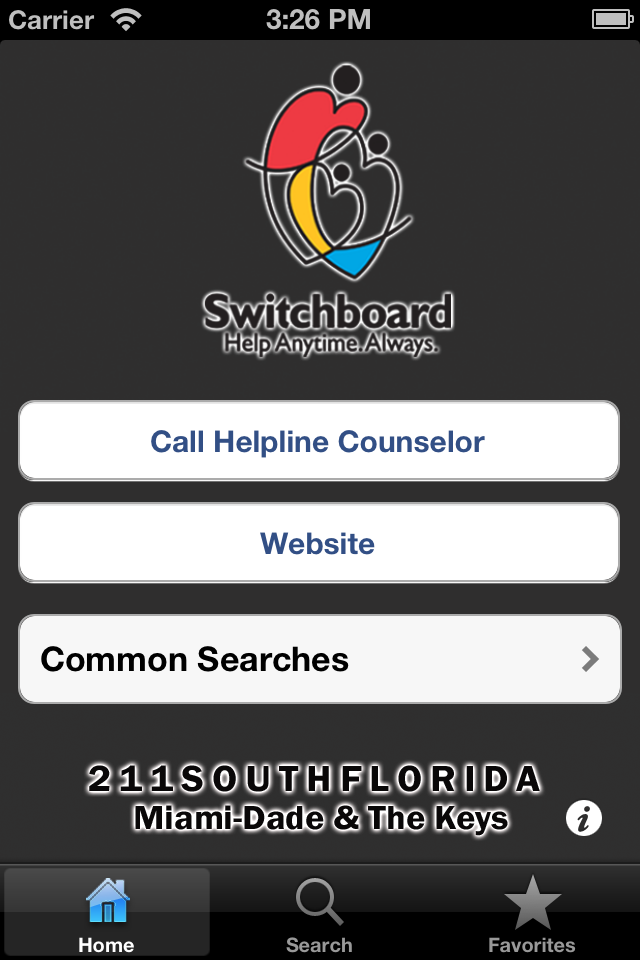
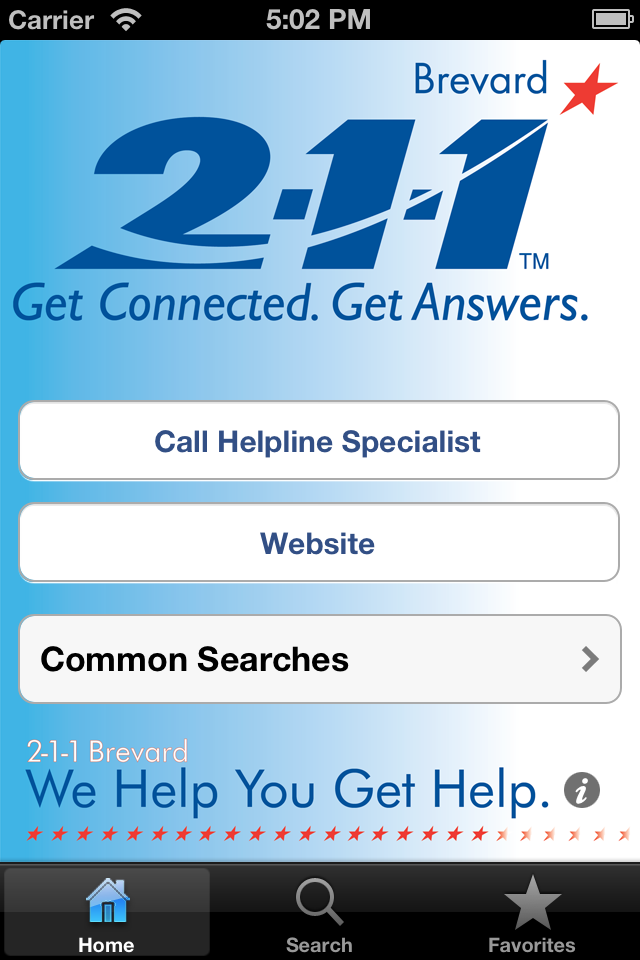
More 211brevard changes.
git-svn-id: https://svn.bowmansystems.net/cp5_ios/branches/211brevard@423 b6d98a84-8402-493f-99b4-82035377a125

diff --git a/CommunityPointMobile/about.html b/CommunityPointMobile/about.html
@@ -17,14 +17,13 @@
 <div style="font-family: arial, sans-serif; margin-top: 1em; margin-bottom:1em">
 <h3>Mission</h3>
 <p>
-Switchboard of Miami counsels, connects and empowers people in need.
+Providing assistance &amp; referrals in times of emotional, financial and community crisis.
 </p>
 
 <h3>Contact Us</h3>
 <p>
-Helpline Counselor: <a href="tel://305-631-4211">305-631-4211</a><br />
-TTY: <a href="tel://305-644-9449">305-644-9449</a><br />
-Office: <a href="tel://305-358-1640">305-358-1640</a>
+Helpline Specialist: <a href="tel://211">2-1-1</a> in Brevard County or <a href="tel://321-632-6688">321.632.6688</a><br />
+Office: <a href="tel://321-631-9290">321.631.9290</a>
 </p>
 
 <h3><a href="http://www.youtube.com/watch?v=JnuDC5A-OgM">Watch Help Video</a></h3>

diff --git a/CommunityPointMobile/Classes/User Interface/HomeViewController.m b/CommunityPointMobile/Classes/User Interface/HomeViewController.m
@@ -20,7 +20,7 @@
 	// Get singleton instance of the helper
 	xsHelper = [XServicesHelper sharedInstance];
 	[self.navigationController setNavigationBarHidden:YES animated:NO];
-
+ 
     [super viewDidLoad];
 }
 
@@ -41,6 +41,23 @@
 	tableView.backgroundColor = [UIColor clearColor];
 	[self.navigationController setNavigationBarHidden:YES animated:YES];
 
+    if (!setBackground) {
+        UIImage* backgroundImage;
+        CGFloat screenHeight = [UIScreen mainScreen].bounds.size.height;
+        if ([UIScreen mainScreen].scale == 2.f && screenHeight == 568.0f) {
+            backgroundImage = [UIImage imageNamed:@"Appimage-568h.png"];
+        } else {
+            backgroundImage = [UIImage imageNamed:@"Appimage.png"];
+        }
+        UIImageView *backgroundView = [[UIImageView alloc] initWithImage:backgroundImage];
+        backgroundView.frame = self.view.bounds;
+        [[self view] addSubview:backgroundView];
+        [[self view] sendSubviewToBack:backgroundView];
+        
+        [backgroundView release];
+        setBackground = YES;
+    }
+    
 	[super viewWillAppear:animated];
 }
 
@@ -54,7 +71,7 @@
 }
 
 - (IBAction) videoButtonPressed: (id) sender {
-	NSString *url = @"tel://305-631-4211";
+	NSString *url = @"tel://211";
 	//NSString *url = [[[SettingsHelper sharedInstance] settings] objectForKey:@"helpVideo"];
 	[[UIApplication sharedApplication] openURL:[NSURL URLWithString: url]];
 }

diff --git a/CommunityPointMobile/Classes/User Interface/HomeViewController.h b/CommunityPointMobile/Classes/User Interface/HomeViewController.h
@@ -16,6 +16,7 @@
 	UIButton* website;
 	XServicesHelper *xsHelper;
 	AboutViewController *aboutViewController;
+    BOOL setBackground;
 }
 
 @property (nonatomic, retain) IBOutlet UITableView* tableView;
